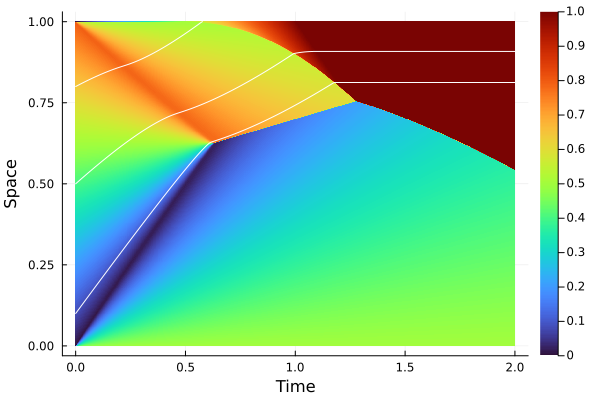
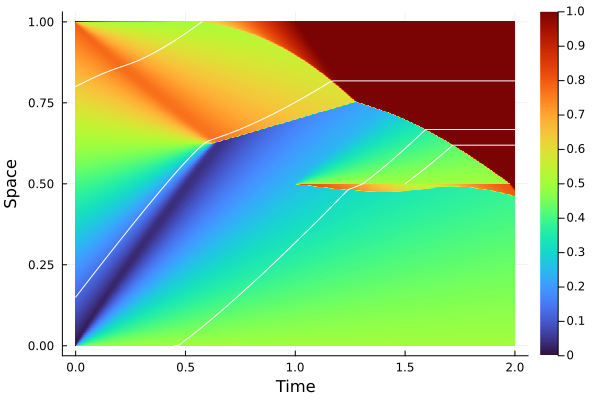
Add custom sensors initial position

diff --git a/README.md b/README.md
@@ -17,14 +17,17 @@ These conditions are coming from [[1]](http://proceedings.mlr.press/v144/barreau
 ```julia
 using MacroMicroSimulator
 
+# Definition of the equation
 flux = MacroMicroSimulator.Flux(ρ -> ρ * (1 - ρ), ρ_c=0.5f0, V_f=1.0f0)
-equation = MacroMicroSimulator.Equation(L=1.0f0, T=2.0f0, flux=flux, γ=0)
+g1 = (0.5f0, (t, ρ) -> (t >= 1.0f0) ? 0.05f0 * (1 + cos((t - 1) * 6)) : 0.0f0)
+equation = MacroMicroSimulator.Equation(L=1.0f0, T=2.0f0, flux=flux, gs=[g1])
 
-simulator = MacroMicroSimulator.Simulator(equation, 1000)
+# Definition of the macro-simulator
+simulator = MacroMicroSimulator.Simulator(equation, N_L=500)
 initial_condition(simulator, x -> 0.8 * x)
 top_boundary_condition(simulator, identity)
 bottom_boundary_condition(simulator, x -> 0.9)
-compute(simulator)
+compute(simulator) # We compute the solution
 
 MacroMicroSimulator.plot(simulator) |> display
 ```
@@ -36,9 +39,15 @@ For more information, please see the documentation.
 Based on the density function, it is possible to generate trajectories of particles. Their speed in the flow is defined as $V(\rho) = f(\rho) / \rho$ where $\rho$ is the density at the particle position.
 
 ```julia
-probe_vehicles = MacroMicroSimulator.Sensors([0.1f0, 0.5f0, 0.8f0], simulator)
-
-compute(probe_vehicles)
+# Definition of the micro-simulator
+probe_vehicles_initial_condition = [
+    (t=0.0f0, x=0.15f0),
+    (t=0.0f0, x=0.8f0),
+    (t=0.45f0, x=0.0f0),
+    (t=1.5f0, x=0.5f0)
+]
+probe_vehicles = MacroMicroSimulator.Sensors(probe_vehicles_initial_condition, simulator)
+compute(probe_vehicles) # We compute positions of the sensors
 
 MacroMicroSimulator.plot(probe_vehicles) |> display
 ```
